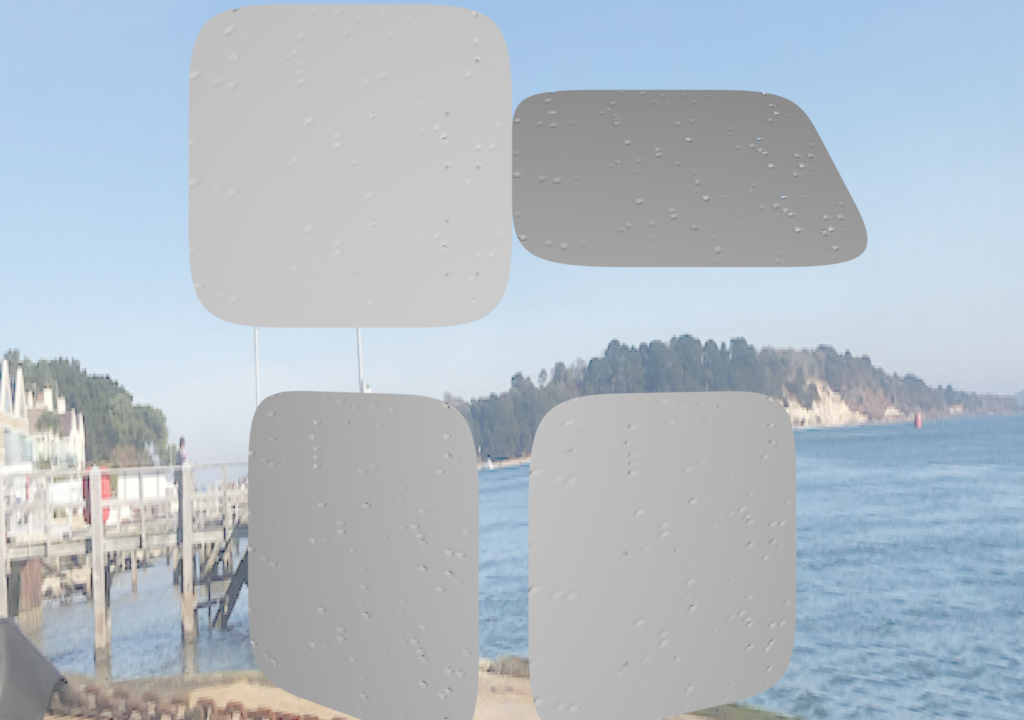
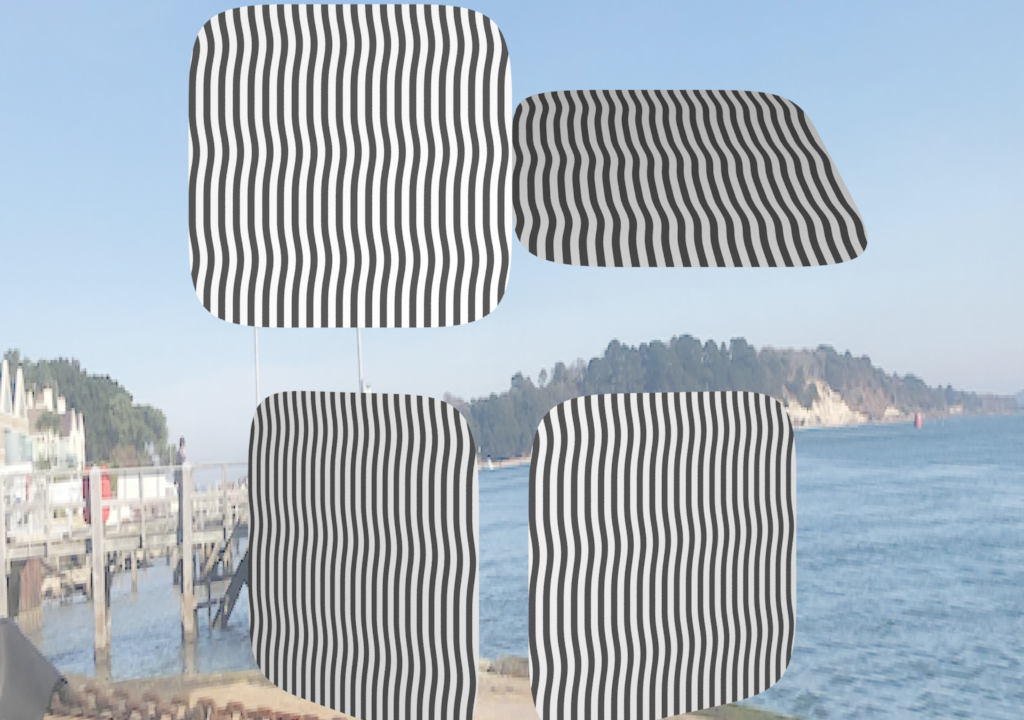
updated for hour 5 in master

diff --git a/shaders/testStripes.py b/shaders/testStripes.py
@@ -1,0 +1,172 @@
+#!/usr/bin/python
+from __future__ import print_function
+import prman
+import sys,os.path,subprocess
+sys.path.append('../python')
+import ProcessCommandLine as cl
+
+# Main rendering routine
+def main(filename,shadingrate=10,pixelvar=0.1,
+         fov=45.0,width=1024,height=720,
+         integrator='PxrPathTracer',integratorParams={}
+        ) :
+  print ('shading rate {} pivel variance {} using {} {}'.format(shadingrate,pixelvar,integrator,integratorParams))
+  ri = prman.Ri() # create an instance of the RenderMan interface
+
+  # this is the begining of the rib archive generation we can only
+  # make RI calls after this function else we get a core dump
+  ri.Begin(filename)
+  ri.Option('searchpath', {'string archive':'./:@'})
+  ri.Option('searchpath', {'string texture':'../sourceImages/:@'})
+
+  # now we add the display element using the usual elements
+  # FILENAME DISPLAY Type Output format
+  ri.Display('ferry.exr', 'it', 'rgba')
+  ri.Format(width,height,1)
+
+  # setup the raytrace / integrators
+  ri.Hider('raytrace' ,{'int incremental' :[1]})
+  ri.ShadingRate(shadingrate)
+  ri.PixelVariance (pixelvar)
+  #ri.Integrator (integrator ,'integrator',integratorParams)
+  ri.Option( 'statistics', {'filename'  : [ 'stats.txt' ] } )
+  ri.Option( 'statistics', {'endofframe' : [ 1 ] })
+  ri.Projection(ri.PERSPECTIVE,{ri.FOV:fov})
+
+  #ri.Rotate(12,1,0,0)
+  ri.Translate( 0, 0 ,2.5)
+
+
+  # now we start our world
+  ri.WorldBegin()
+
+
+
+  #######################################################################
+  #Lighting We need geo to emit light
+  #######################################################################
+  ri.TransformBegin()
+  ri.Rotate(-90,1,0,0)
+  ri.Rotate(180,0,0,1)
+  ri.Light( 'PxrDomeLight', 'domeLight', { 
+            'string lightColorMap'  : 'lightMap.tex'
+   })
+  ri.TransformEnd()
+  #######################################################################
+  # end lighting
+  #######################################################################
+
+  ri.AttributeBegin()
+
+  
+  
+  
+  
+  ri.Attribute( 'user' , {'string __materialid' : ['mainplate'] })
+  plate=ri.ObjectBegin()
+  # ri.Polygon({ 'P' : [-1 , 1 , 0, 
+  #                      1 , 1 , 0, 
+  #                      1,  -1.4 , 0, 
+  #                     -1,  -1.4 , 0
+  #                     ]})
+  ri.HierarchicalSubdivisionMesh("catmull-clark" ,[4 ,4 ,4 ,4, 4 ,4 ,4 ,4 ,4], 
+    [4, 5, 1, 0, 5, 6, 2, 1, 6, 7, 3, 2, 8 ,9, 5, 4, 9 ,10 ,6 ,5 ,10, 11, 7, 6, 12, 13, 9 ,8 ,13, 14, 10, 9, 14, 15, 11, 10], 
+    ["interpolateboundary"] ,[1 ,0 ,0] ,[2] ,[] ,[], 
+    {"P"  : [-1, -1, 0 ,-0.333333, -1, 0 ,0.333333, -1, 0, 1 ,-1, 0,      -1 ,-0.333333 ,0, -0.333333, -0.333333 ,0 ,0.333333 ,-0.333333, 0, 1, -0.333333 ,0,
+      -1, 0.333333 ,0, -0.333333 ,0.333333, 0, 0.333333, 0.333333 ,0, 1, 0.333333, 0,
+      -1, 1, 0, -0.333333, 1 ,0 ,0.333333, 1, 0 ,1 ,1, 0,]} )
+  # ri.Rotate(-90,1,0,0)
+  # ri.Scale(0.4,0.4,0.4)
+  # ri.Geometry('teapot')
+  
+
+
+  ri.ObjectEnd()
+  ri.Pattern('PxrRamp','plateBase',
+  {
+    "int rampType" : [1],
+    "int tile" : [0],
+    "int useNewRamp" : [1],
+    "int colorRamp" : [5] ,
+    "color[5] colorRamp_Colors" : [1, 1, 1,1 ,0, 0, 1, 1 ,1 ,0 ,0.0228114408, 0.827000022, 1 ,1 ,1],
+    "float[5] colorRamp_Knots" : [0.204839006 ,0.258064985, 0.306452006, 0.30806452, 1],
+    "string colorRamp_Interpolation" : ["constant"],
+  })
+  ri.Pattern('stripes','stripes', 
+  { 
+    #'reference color C2' : ['plateBase:resultRGB'],
+    'color C2' : [0.1,0.1,0.1],
+    'color C1' : [1.0,1.0,1.0],
+    'float begin' : [0.4],
+    'float end' : [0.6]
+
+  })
+
+  ri.Bxdf ('PxrSurface' , 'mainplate', 
+  {
+    'reference color diffuseColor' : ['stripes:Cout'],
+    'string __materialid' : ['mainplate']  
+  })
+  
+  
+
+  # top left front  
+  ri.TransformBegin()
+  ri.Scale(0.5,0.5,0.5)
+  ri.Translate(-1,1.2,0)
+  ri.ObjectInstance(plate)
+
+  ri.TransformEnd()
+  # top right flat 45
+  ri.TransformBegin()
+  ri.Scale(0.5,0.5,0.5)
+  ri.Translate(1,1.2,0)
+  ri.Rotate(45,1,0,0)
+  ri.ObjectInstance(plate)
+  ri.TransformEnd()
+  # bottom left  
+  ri.TransformBegin()
+  ri.Scale(0.5,0.5,0.5)
+  ri.Translate(-1,-1.2,0)
+  ri.Rotate(35,0,1,0)
+  ri.ObjectInstance(plate)
+
+  ri.TransformEnd()
+  # bottom right
+  ri.TransformBegin()
+  ri.Scale(0.5,0.5,0.5)
+  ri.Translate(1,-1.2,0)
+  ri.Rotate(-25,0,1,0)
+  ri.ObjectInstance(plate)
+
+  ri.TransformEnd()
+  
+
+  ri.AttributeEnd()
+  
+  # end our world
+  ri.WorldEnd()
+  # and finally end the rib file
+  ri.End()
+
+
+'''
+function to check if shader exists and compile it, we assume that the shader
+is .osl and the compiled shader is .oso If the shader source is newer than the
+compiled shader we will compile it. It also assumes that oslc is in the path.
+'''
+def checkAndCompileShader(shader) :
+	if os.path.isfile(shader+'.oso') != True  or os.stat(shader+'.osl').st_mtime - os.stat(shader+'.oso').st_mtime > 0 :
+		print( 'compiling shader {0}'.format(shader))
+		try :
+			subprocess.check_call(['oslc', shader+'.osl'])
+		except subprocess.CalledProcessError :
+			sys.exit('shader compilation failed')
+		 
+
+if __name__ == '__main__':  
+  shaderName='stripes'
+  checkAndCompileShader(shaderName)
+  cl.ProcessCommandLine('testStripes.rib')
+  main(cl.filename,cl.args.shadingrate,cl.args.pixelvar,cl.args.fov,cl.args.width,cl.args.height,cl.integrator,cl.integratorParams)
+

diff --git a/python/basicScene.py b/python/basicScene.py
@@ -76,6 +76,12 @@ def main(filename,shadingrate=10,pixelvar=0.1,
       'integer specularModelType' : [1], 
       'string __materialid' : ['mainplate'],
   })
+
+
+  # ri.Pattern('PxrLayerMixer','surfaceLayer',{
+  #   ""
+  # })
+
   ri.Polygon({ 'P' : [-1 , 1 , 0, 
                        1 , 1 , 0, 
                        1,  -1.4 , 0, 

diff --git a/README.md b/README.md
@@ -1,89 +1,54 @@
-# Renderman Lookdev Project Hour 4
+# Renderman Lookdev Project Hour 5
 
-The issue with the displacements took a long time to find, it was due to setting the displacement shader after the mesh. As I was using ObjectInstance this made sense however it seems the displacement attribute was not getting passed to the mesh as it needed to be called first. 
-
-I have now modified the test scene to use a subdiv surface as this work better with displacement's as well.
-
+Today started work on the stripes shader for the salt stripes (see Detail 3)
 ![](writeupImages/shaderTest.png)
 
-
-## Test scene
-
-```
-ri.AttributeBegin()
-
-ri.Attribute ('trace' ,{'int displacements' : [ 1 ], "int autobias" : [1] ,"float bias" : [0.1]})
-
-ri.Attribute ('displacementbound', {'float sphere' : [2], 'string coordinatesystem' : ['object']})
-
-ri.Pattern('rustDisplace','rustDisplace', 
-{ 
-  'float dispScale' : [0.015],
-  'float spread' : [12.638],
-  'float pointSpreadX' : [510.0],
-  'float pointSpreadY' : [210.0],
-    
-})
+The plan is to use this as a layer and add to the top of the base scene. Going to attempt this tomorrow. For now the basic shader still needs lots of work but gives the start point.
 
 
-
-
-ri.Displace( 'PxrDisplace' ,'displacement' ,
-{
-  'int enabled' : [1],
-  'float dispAmount' : [1.0],
-  'reference float dispScalar' : ['rustDisplace:resultF'] ,
-  'vector dispVector' : [0, 0 ,0],
-  'vector modelDispVector' : [0, 0 ,0],
-  'string __materialid' : ["mainplate"]
-})
-
-ri.Attribute( 'user' , {'string __materialid' : ['mainplate'] })
-plate=ri.ObjectBegin()
-ri.HierarchicalSubdivisionMesh("catmull-clark" ,[4 ,4 ,4 ,4, 4 ,4 ,4 ,4 ,4], 
-  [4, 5, 1, 0, 5, 6, 2, 1, 6, 7, 3, 2, 8 ,9, 5, 4, 9 ,10 ,6 ,5 ,10, 11, 7, 6, 12, 13, 9 ,8 ,13, 14, 10, 9, 14, 15, 11, 10], 
-  ["interpolateboundary"] ,[1 ,0 ,0] ,[2] ,[] ,[], 
-  {"P"  : [-1, -1, 0 ,-0.333333, -1, 0 ,0.333333, -1, 0, 1 ,-1, 0,      -1 ,-0.333333 ,0, -0.333333, -0.333333 ,0 ,0.333333 ,-0.333333, 0, 1, -0.333333 ,0,
-    -1, 0.333333 ,0, -0.333333 ,0.333333, 0, 0.333333, 0.333333 ,0, 1, 0.333333, 0,
-    -1, 1, 0, -0.333333, 1 ,0 ,0.333333, 1, 0 ,1 ,1, 0,]} )
-
-
-ri.ObjectEnd()
-ri.Bxdf ('PxrSurface' , 'mainplate', 
-{
-  'color diffuseColor' : [0.6,0.6,0.6] ,
-  'string __materialid' : ['mainplate']  
-})
-```
 
 ## Shader
-
-Now have the beginnings of a shader based on this one https://thebookofshaders.com/edit.php#11/lava-lamp.frag needs more work.
 ```
-surface rustDisplace (
-              float spread=2.638,
-              float pointSpreadX=1.0,
-              float pointSpreadY=1.0,
-              float dispScale=5.0,
-              output float resultF=0
-              )
+float pulse (float a,float b,float fuzz,float x)
 {
-float uu=u*pointSpreadX;
-float vv=v*pointSpreadY;
-vv *=pointSpreadX/pointSpreadY;
-uu *=pointSpreadX/pointSpreadY;
-
-point pos = point(uu,vv,0);
-
-// Add a random position
-vector vel = vector(spread);//vector(3.0*0.1);
-float DF = snoise(pos+vel)*0.25+0.25;
-float a= snoise(pos*vector(cos(3.0*0.15),sin(3.0*0.1)*0.1,0.0))*spread;
-
-vel = point(cos(radians(a)),sin(radians(a)),0);
-DF += snoise(pos+vel)*.25+.25;
-resultF=-(smoothstep(.7,.75,DF-floor(DF)))*dispScale; //fract)
+    return (smoothstep((a)-(fuzz), (a), (x)) - smoothstep((b)-(fuzz), (b), (x)));
 }
+
+
+float stripe(point Pos ,int Number,float uu, float vv)
+{
+  float Fac = 0;
+  float x = mod(Pos[0]+cos(noise("perlin",v)*sin(noise(v))),1);
+  int i;
+	
+  for(i=1; i <= Number; i++)
+	{
+    if( x < (float)i/Number )
+		{
+      Fac = i % 2;
+      break;
+    }
+  }
+	return Fac;
+}
+
+shader stripes(
+ color C1 = color(1,0,0),
+ color C2 = color(0,0,1),
+ float begin=0.3,
+ float end=0.6,
+ float repeat=8,
+ float fuzzy = 0.2,
+ output	color Cout=0 
+
+)
+{
+float uu=fmod(u*repeat,1.0);
+float vv=fmod(v*repeat,1.0);
+point pos=transform("world","shader",P);
+Cout=mix(C1,C2,stripe(pos,22,uu,vv));
+}
+
 ```
 
 
